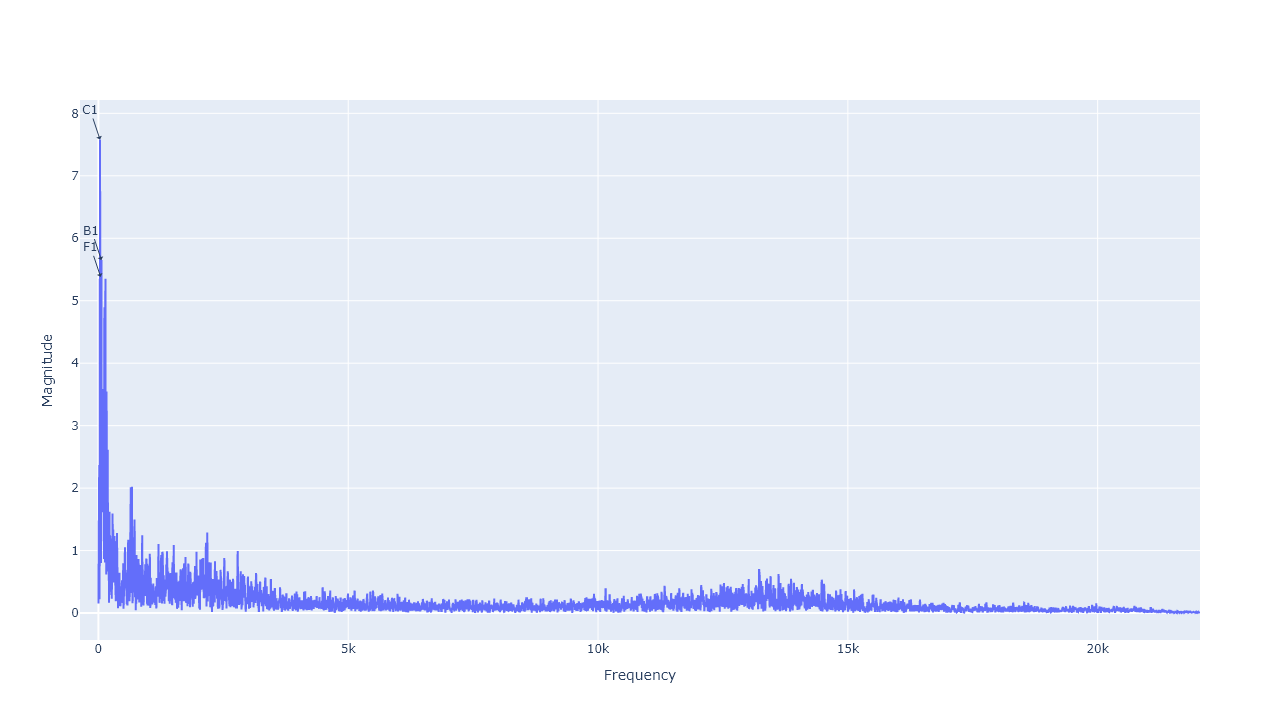
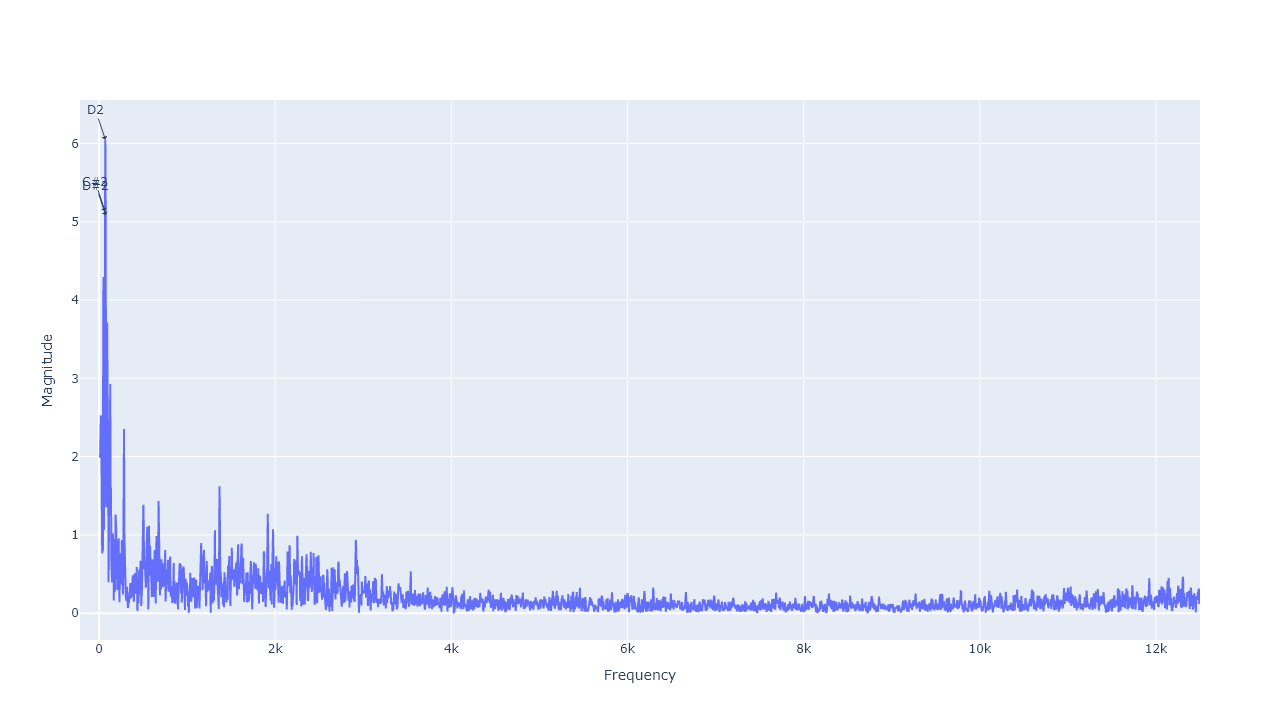
for testing

diff --git a/chord-visualizer-v2.py b/chord-visualizer-v2.py
@@ -3,20 +3,24 @@ import plotly.graph_objects as go
 import pygame
 import threading
 import queue
-import time
+import sounddevice as sd
 
 # Pygame configuration
 pygame.init()
 WIDTH, HEIGHT = 1280, 720
 SCREEN = pygame.display.set_mode((WIDTH, HEIGHT))
-pygame.display.set_caption("Chord Visualizer")
+pygame.display.set_caption("Chord Visualizer V2")
 CLOCK = pygame.time.Clock()
-FPS = 30
+FPS = 60
 
 # Audio configuration
 RATE = 44100
 FFT_WINDOW_SECONDS = 0.25
 FFT_WINDOW_SIZE = int(RATE * FFT_WINDOW_SECONDS)
+
+FREQ_MIN = 10
+FREQ_MAX = 12500
+
 TOP_NOTES = 3
 NOTE_NAMES = ["C", "C#", "D", "D#", "E", "F", "F#", "G", "G#", "A", "A#", "B"]
 
@@ -41,6 +45,8 @@ def find_top_notes(fft, xf, num):
         if len(found) >= num:
             break
         f = xf[lst[idx][0]]
+        if f < FREQ_MIN or f > FREQ_MAX:
+            continue
         y = lst[idx][1]
         n = freq_to_number(f)
         if n == -np.inf:
@@ -53,8 +59,10 @@ def find_top_notes(fft, xf, num):
     return found
 
 def generate_plotly_frame(fft, xf, top_notes):
+    filtered_fft = [(f, amp) for f, amp in zip(xf, fft) if FREQ_MIN <= f <= FREQ_MAX]
+    filtered_xf, filtered_amp = zip(*filtered_fft)
     fig = go.Figure()
-    fig.add_trace(go.Scatter(x=xf, y=fft, mode='lines', name='FFT'))
+    fig.add_trace(go.Scatter(x=filtered_xf, y=filtered_amp, mode='lines', name='FFT', line=dict(smoothing=1.3)))  # Add smoothing to lines
     for note in top_notes:
         fig.add_annotation(x=note[0], y=note[2], text=note[1], showarrow=True, arrowhead=1)
     fig.update_layout(width=WIDTH, height=HEIGHT, xaxis_title="Frequency", yaxis_title="Magnitude")
@@ -86,7 +94,6 @@ def process_audio():
                 draw_pygame_frame("current_frame.png")
 
 # Main loop
-import sounddevice as sd
 stream = sd.InputStream(callback=audio_callback, channels=1, samplerate=RATE, blocksize=FFT_WINDOW_SIZE)
 try:
     with stream:
